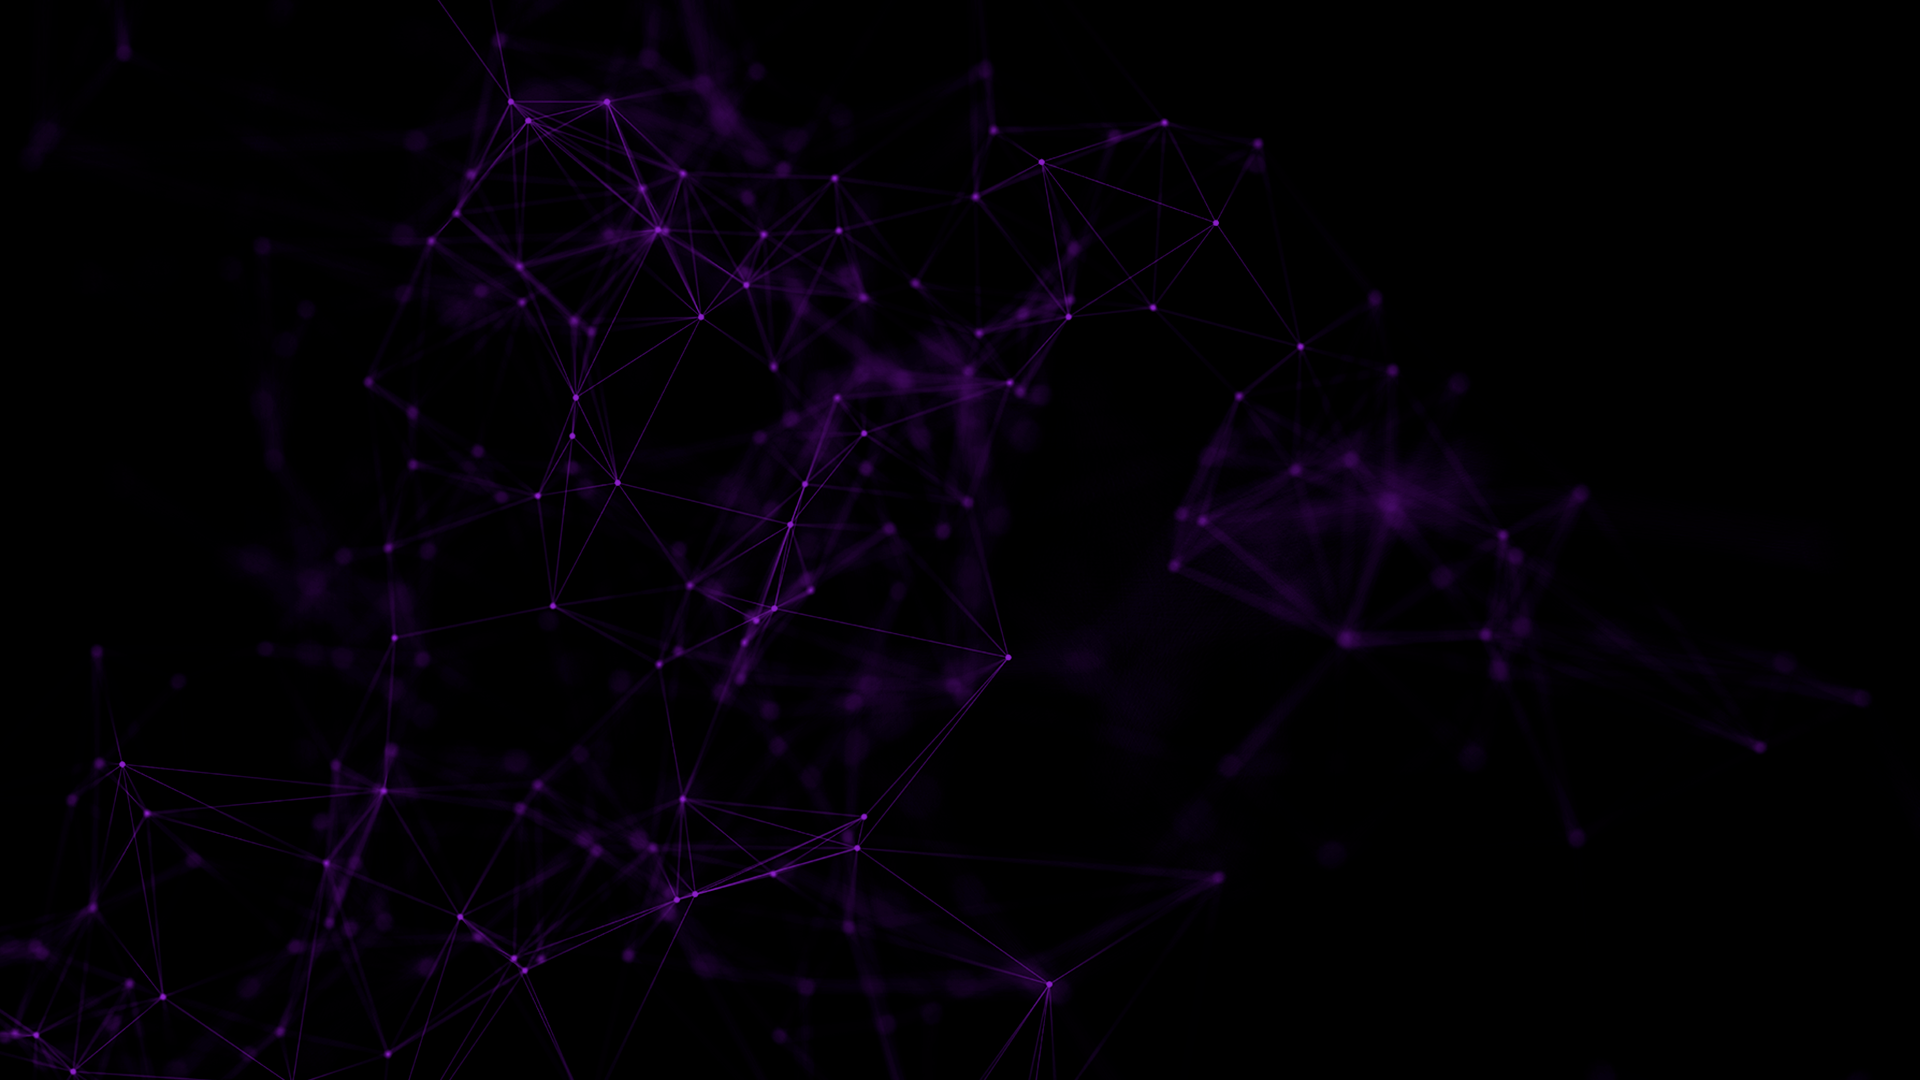
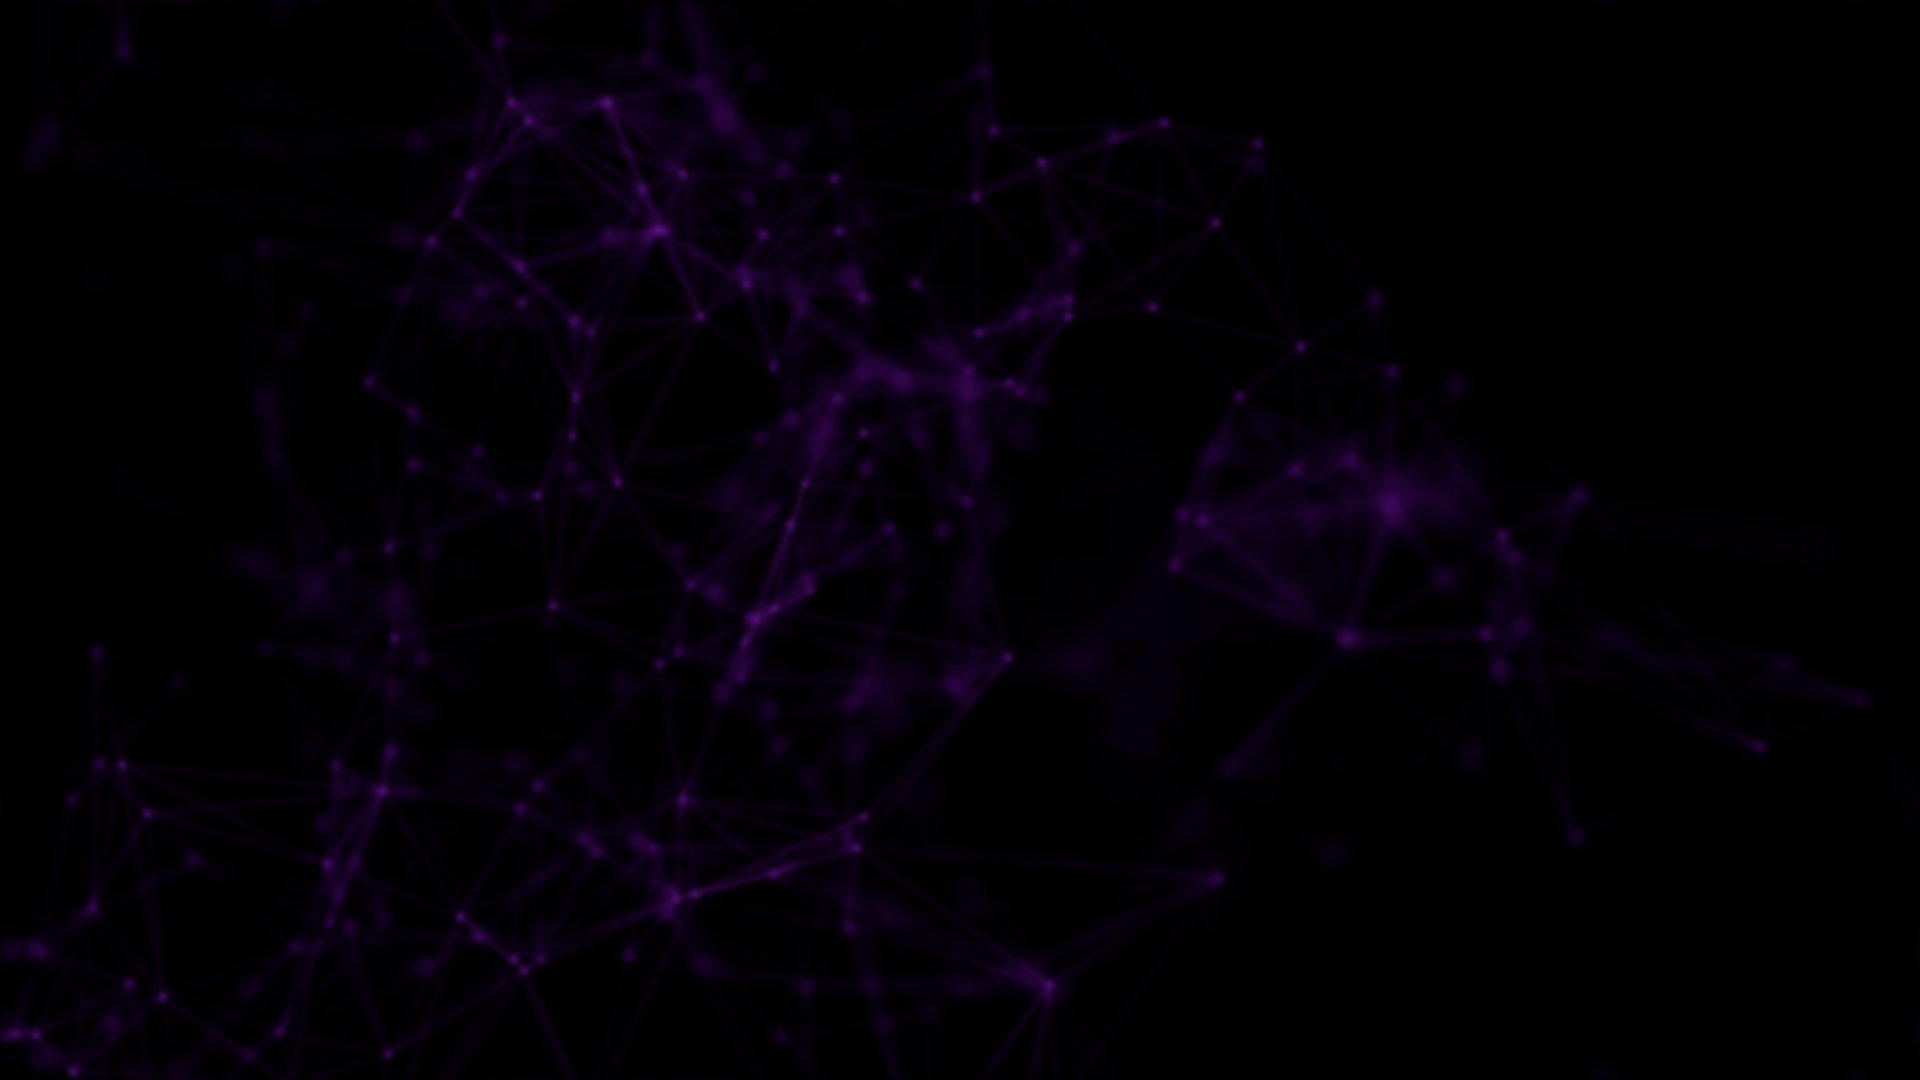
фикс

diff --git a/public/themes/ProtesiaN/slider.css b/public/themes/ProtesiaN/slider.css
@@ -1,5 +1,5 @@
 .parallax-bg {
-    background-image: url(/images/main-bg2.png);
+    background-image: url(/images/main-bg.png);
     transform: rotate(180deg);
     background-color: #000;
     height: 130%;
